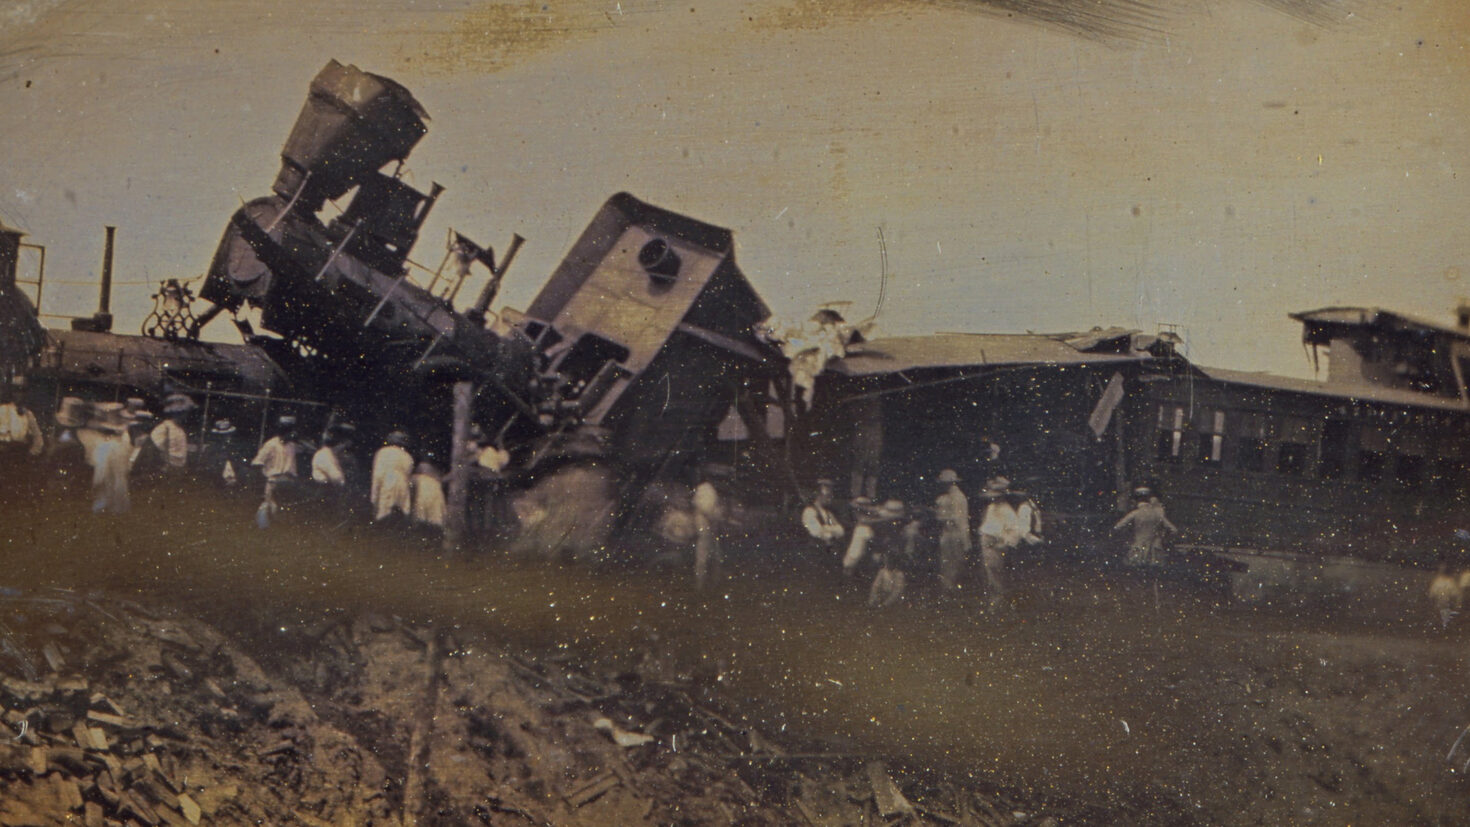
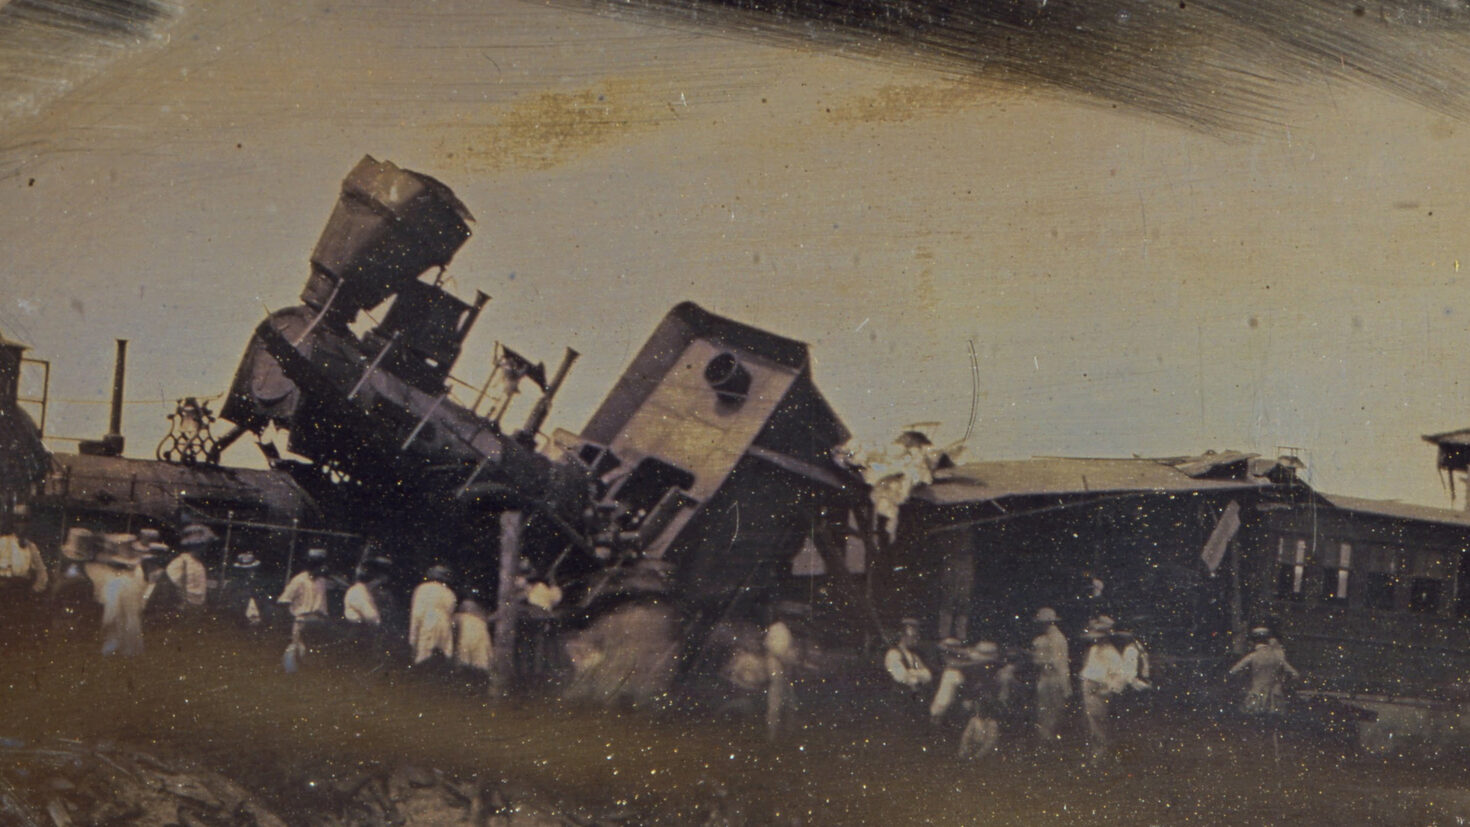
Railroad slide: photo cropped tighter and higher; the Old Bridge crash in the narration
The crop is 10% smaller from the same left edge and 150 px higher, so less
ground shows and "Head-on collision" is in the sky, not on the car's roof.
The Camden & Amboy collision near Old Bridge, three days earlier, is in the
last click's narration and notes (Scientific American, August 20, 1853).

diff --git a/watches/slides.md b/watches/slides.md
@@ -2691,6 +2691,11 @@ Fourteen people died, and seventeen were seriously injured.
 
 [nofigure]
 
+It was the second crash of its kind that week. Three days earlier, two
+trains of the Camden & Amboy Railroad had collided near Old Bridge, New
+Jersey. Four people died. The watches of the two crews were two and a half
+minutes apart.
+
 The public was outraged, and the railroads changed their rules. Within days,
 the Boston & Providence Railroad, whose line met this one at Boston Switch,
 made each conductor have his watch certified as reliable by Bond & Sons of
@@ -2708,6 +2713,9 @@ States.
 > [Rails West](http://www.railswest.com/time/watches.html), from Ian Bartky's
 > _Selling the True Time_ (2000). The time zone is from the
 > [Harvard Gazette](https://news.harvard.edu/gazette/story/2011/11/americas-first-time-zone/).
+> The Old Bridge collision, its toll and the watches are from
+> [Scientific American](https://www.scientificamerican.com/article/railroad-accidentsthe-remedy/)
+> of August 20, 1853. Its date, August 9, is from later lists of wrecks.
 > The state lines on the map are today's.
 
 -->
@@ -2723,9 +2731,9 @@ Friday, August 12, 1853. An excursion train leaves Uxbridge with about 475 peopl
 
 [click] Fourteen people died. Seventeen were seriously injured.
 
-[click] The public was outraged. Railroads made their conductors carry watches certified as reliable, and paid to keep them that way. And they agreed to one time, sent by telegraph from the Harvard College Observatory, right here in Cambridge. In effect, the first time zone in America.
+[click] And it was the second crash like it that week. Three days earlier, in New Jersey, two trains collided near Old Bridge. Four died. The two crews' watches were two and a half minutes apart. The public was outraged. Railroads made their conductors carry watches certified as reliable, and paid to keep them that way. And they agreed to one time, sent by telegraph from the Harvard College Observatory, right here in Cambridge. In effect, the first time zone in America.
 
-IF ASKED: Both trains were the Providence & Worcester's. The watch rules quoted are the Boston & Providence's, whose line met this one at Boston Switch. Putnam was charged with manslaughter; I found no record of the verdict. The railroad paid $43,876 to victims and families, and built a second track. 13 or 14 dead, depending on the source.
+IF ASKED: Both trains were the Providence & Worcester's. The watch rules quoted are the Boston & Providence's, whose line met this one at Boston Switch. Putnam was charged with manslaughter; I found no record of the verdict. The railroad paid $43,876 to victims and families, and built a second track. 13 or 14 dead, depending on the source (Scientific American, a week later, said 12). Old Bridge: the Camden & Amboy, August 9, 1853, 4 killed, 7 wounded; the conductor had not compared his watch with the engineer's or the station clock.
 -->
 
 ---

diff --git a/watches/tasks/2026-11-08-railroad/PLAN.md b/watches/tasks/2026-11-08-railroad/PLAN.md
@@ -258,6 +258,13 @@ About 170 words, about 75 seconds at 140 words a minute:
   ordered more reliable watches", the time from Harvard.
 - [Blackstone Valley Historical Society, "The Train Wreck that Changed Time"](https://www.bvhsri.org/2023/11/11/the-train-wreck-that-changed-time/)
   (2023): 13 killed, about 40 wounded.
+- [Scientific American, "Railroad Accidents—The Remedy"](https://www.scientificamerican.com/article/railroad-accidentsthe-remedy/)
+  (August 20, 1853, vol. 8, no. 49): the Camden & Amboy collision near Old
+  Bridge, New Jersey, 4 killed and 7 wounded, from "a difference of 2½
+  minutes" between the crews' watches (the scan's text says "2J"); its
+  conductor did not compare his watch with the engineer's or the station
+  clock. It gives 12 killed at Valley Falls. The date, August 9, is from a
+  secondary list of wrecks caused by watches only.
 - [Wikimedia Commons, the daguerreotype](https://commons.wikimedia.org/wiki/File:L._Wright_-_Train_wreck_on_the_Providence_Worcester_Railroad_near_Pawtucket,_Rhode_Island_-_Google_Art_Project.jpg):
   public domain, 3791 × 2878 px.
 
@@ -295,11 +302,20 @@ thirteenth messages.
   inspections / 1st US time zone". No bullets, and no colon as a header:
   the changes are short, so that all four paragraphs fit under the
   title.
+- **The week's other crash** (the seventeenth message): the Old Bridge
+  collision, three days earlier, is in the narration and the notes of the
+  last click, not on the slide: the four paragraphs fill the rail.
 - **The photo** is the widest crop of the slide's shape, centred on the
   oval, that stays clear of the dark rim of tarnish inside its edge: 2720 ×
   1530 px, 13% wider than the crop of section 3 (the thirteenth message).
   The crop that touches the oval, 2900 px wide, has the rim's smear and
-  scratches in its corners. Both are in `evidence/`. It is 1470 px wide,
+  scratches in its corners. Both are in `evidence/`. Then, from the same
+  top left corner, 10% tighter (2465 × 1386 px), so that less of the
+  ground shows; it cuts the car at the right in half (the fifteenth
+  message). Then 150 px higher (at 528, 533), so that "Head-on collision"
+  is in the sky, not on the car's roof, where it hid some of the damage
+  (the sixteenth message; `evidence/photo-crop-tighter.jpg`). A little
+  tarnish shows in the top corners, behind the title. It is 1470 px wide,
   223 kB. At click 3 it covers the slide under the title and the words. It
   does not dim at the later clicks: the words keep their outline over it.
 - **The words are as high as they can be** (the twelfth message), not

diff --git a/watches/public/railroad/README.md b/watches/public/railroad/README.md
@@ -10,8 +10,12 @@ The Questions slide in `slides.md` credits it.
   [Commons](https://commons.wikimedia.org/wiki/File:L._Wright_-_Train_wreck_on_the_Providence_Worcester_Railroad_near_Pawtucket,_Rhode_Island_-_Google_Art_Project.jpg).
   Public domain. The plate is oval, x 65–3712 and y 100–2795 of the
   3791 × 2878 px scan, with a dark rim of tarnish about 100 px wide inside
-  its edge. The picture is the largest crop of the slide's shape, centred
-  on the oval, that stays clear of the rim: 2720 × 1530 px at 528, 683.
+  its edge. The picture is a crop of the slide's shape, 2465 × 1386 px at
+  528, 533. It is 10% smaller than the largest crop, centred on the oval,
+  that stays clear of the rim (2720 × 1530 px at 528, 683), so that less of
+  the ground shows, and it cuts the car at the right in half. It is 150 px
+  higher, so that the text at the right is in the sky, above the car's roof;
+  a little tarnish shows in its top corners.
   Then it is scaled to 1470 px wide, with its metadata removed (JPEG
   quality 82).
   The crops are compared in `tasks/2026-11-08-railroad/evidence/`.

diff --git a/watches/tasks/2026-11-08-railroad/instructions.md b/watches/tasks/2026-11-08-railroad/instructions.md
@@ -106,3 +106,24 @@
 ## The fourteenth message, 2026-11-08
 
 > Sure add ~$4,700 → ~$780 today".
+
+## The fifteenth message, 2026-11-08
+
+> For the RR image, there's no a lot of crap at the bottom of the image.
+> Let's keep the upper left corner where it is, but zoom in a bit, this will
+> also cut a little off the right hand side, but I think we can e.g. cut off
+> half of the train car on the RHS without ruinining the impact of the
+> collision.
+
+## The sixteenth message, 2026-11-08
+
+> Head-on collision is actually not in the sky, but rather on the roof of the
+> car, obscuring some damage. Can we move the crop up without changing the
+> zoom maybe? Even though it will bring some oval or other stuff in the upper
+> left corner?
+
+## The seventeenth message, 2026-11-08
+
+> On the RR slide, I'm guessing we don't have room to add a note about 4
+> dying 3 days earlier from a watch that was 2.5 min slow? We should at least
+> put that in the notes & narration.

diff --git a/watches/tasks/2026-11-08-railroad/README.md b/watches/tasks/2026-11-08-railroad/README.md
@@ -9,6 +9,6 @@ Falls, and what changed after it.
   photo and its crops, three designs for the last click with a ranking, the
   order with the Waltham slide, a draft of the speaker notes, the build
   steps, and the sources.
-- `evidence/`: the daguerreotype, whole and in four 16:9 crops: inside the
-  oval (section 3), the full width, to the oval's edge, and inside its rim
-  of tarnish (the one on the slide).
+- `evidence/`: the daguerreotype, whole and in five 16:9 crops: inside the
+  oval (section 3), the full width, to the oval's edge, inside its rim of
+  tarnish, and 10% tighter and 150 px higher (the one on the slide).
